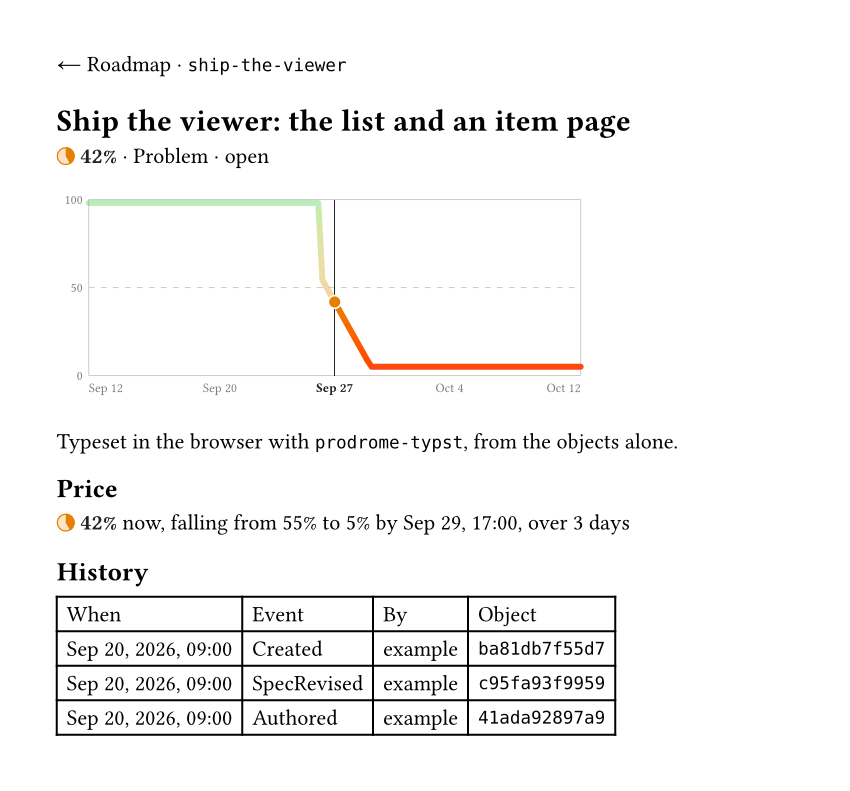
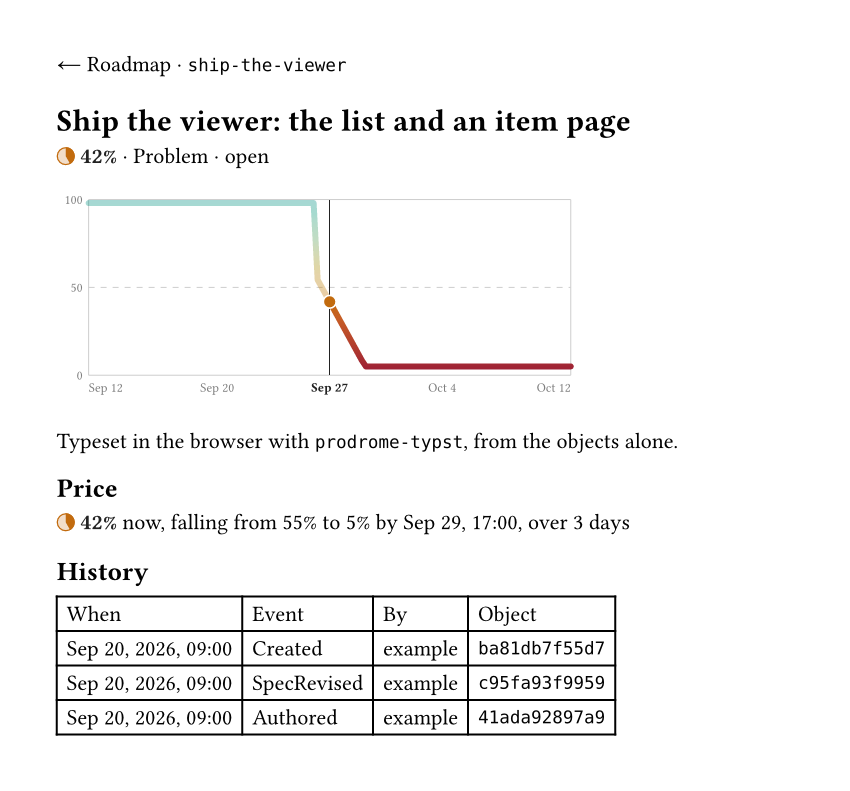
typst: the marks, their scale and their words are the design system's
The package drew its own scale (red to green in OKLCH), pie and trace,
and said its own words for a value. It now imports them from
`typst-design`: `fulfillment-color`'s scale through the pie and the trace,
and `state-of` and `percent`, re-exported. Deleted here: `fulfillment`,
`colour`, `_upward`, `unpriced`, `ink`, `pie`, `_runs`, `trace`, and the
laws of a scale that is no longer this package's (the design system's
laws hold its own).

What stays is the Prodrome's: `price` places the design's price in a
class a stylesheet finds and keeps its words where HTML cannot hold a
drawing, and `trace-of(data, todo)` reads a todo's marks from the data
and draws them as the design's trace. Both go through `_on`, so a design
mark never asks a restricted library for `html`. The viewer's scratch
document uses `trace-of`. The examples' pictures are rendered again.

diff --git a/viewer/src/typst.ts b/viewer/src/typst.ts
@@ -62,8 +62,7 @@ export function scratchDocument(): string {
     ``,
     `Worth #price(e.value) now, which is *#state-of(e.value)*.`,
     ``,
-    `#let m = data.marks.at(e.todo, default: none)`,
-    `#if m != none { trace(m.values, at: data.at, back: m.back, ahead: m.ahead) }`,
+    `#trace-of(data, e.todo)`,
     ``,
   ].join("\n");
 }

diff --git a/typst/README.md b/typst/README.md
@@ -11,48 +11,51 @@ viewer in `viewer/` is one such host, and an example of how to use it.
 
 **It computes nothing about fulfillment.** Every number it draws was answered
 by the core (compiled to WebAssembly, or any other implementation of SPEC.md).
-The one reading it adds is a value's colour.
 
-**The colour is continuous.** A fulfillment `v` in [0, 1] is drawn in
-`colour(v)`, a sample of one gradient, `fulfillment`:
-
-```typst
-#let fulfillment = gradient.linear(color.oklch(color.red), color.oklch(color.green), space: oklch)
-#let colour(value) = fulfillment.sample(value * 100%)
-```
-
-It is linear in each OKLCH channel, `oklch(65.95 + 8.01·v %, 0.227 − 0.007·v,
-28.44 + 115.85·v)`, and runs red, orange, yellow, green. Low is urgent: a
-value says how well things go if nothing changes. `∅`, or a todo that does
-not link, has no value and no colour of the scale; it reads "unpriced" in
-grey. Problem (below 0.5), Watch (below 0.7) and Fine are words
-(`state-of`), never colours. `tests/laws.typ` holds the scale to that formula.
+**Its look is the design system's.** The package imports
+[`typst-design`](https://github.com/bmabsout/typst-design)
+(`@local/typst-design:0.1.0`) for everything that is a look rather than a
+layout: the fulfillment scale (`fulfillment-color(v)`, continuous, low is
+urgent, readable on paper and by red–green colour-blind readers), the pie,
+the trace, the words for a value (`state-of`: Problem below 0.5, Watch below
+0.7, Fine) and `percent`. `∅`, or a todo that does not link, has no value
+and no colour of the scale; it reads "unpriced". The design system's own
+laws hold its scale and marks; `tests/laws.typ` holds what the layouts rely
+on of them, and the layouts themselves.
 
 ## Use
 
 ```typst
-#import "@local/prodrome-typst:0.1.0": roadmap, item, pie, trace
+#import "@local/prodrome-typst:0.1.0": roadmap, item, price, trace-of
 
 #let data = json("data.json")
 #roadmap(data)                         // the list, links to #/todo/<id>
 #item(data, "ship-the-viewer")         // one item's page
-#pie(0.42)                             // a value's pie
-#let m = data.marks.at("ship-the-viewer")
-#trace(m.values, at: data.at, back: m.back, ahead: m.ahead)
+#price(0.42)                           // a value's pie and percentage
+#trace-of(data, "ship-the-viewer")     // its thirty days
 ```
 
-Every layout works in paged export (PDF, PNG, SVG) and in HTML export
+Every layout works in paged export (PDF, PNG, SVG), in HTML export
 (`typst compile --features html --format html`), where the marks become inline
-SVG. The examples compile both ways:
+SVG, and in HTML from a library without `html` (typst-wasm's
+`Project.restricted()`, for markup whose author is not trusted), where the
+marks are left out and their words stay. The examples compile every way, with
+the design system on the package path beside this package:
 
 ```console
-$ mkdir -p pkgs/local/prodrome-typst && ln -s "$PWD/typst" pkgs/local/prodrome-typst/0.1.0
+$ mkdir -p pkgs/local/prodrome-typst pkgs/local/typst-design
+$ ln -s "$PWD/typst" pkgs/local/prodrome-typst/0.1.0
+$ git clone https://github.com/bmabsout/typst-design pkgs/local/typst-design/0.1.0
 $ typst compile --package-path pkgs typst/examples/roadmap.typ
 $ typst compile --package-path pkgs --features html --format html typst/examples/item.typ
 ```
 
-`nix flake check` does the same (`checks.prodrome-typst`), and compiles
-`tests/laws.typ`, whose asserts are the package's laws.
+`nix flake check` does the same (`checks.prodrome-typst`, with the design
+system the flake pins), compiles `tests/laws.typ`, whose asserts are the
+package's laws, and compiles the examples in typst-wasm's restricted project
+(`checks.prodrome-typst-restricted`). `examples/roadmap.png` and
+`examples/item.png` are the examples rendered, and the check renders them
+again (`nix build .#prodrome-typst-examples`) and fails if they differ.
 
 ## The data
 
@@ -81,19 +84,16 @@ store by the viewer's own `viewer/src/view.ts`.
   thirty days, detail, the price in words ("42% now, falling from 55% to 5%
   by Sep 29, 17:00, over 3 days") with the explanation's parts beneath it,
   and the history, each event dated and linked to its object file.
-- `pie(value, size:)`: the value's share of a disc from twelve o'clock
-  clockwise, in `colour(value)` on a faint track, with a thin outline.
-- `trace(values, at:, back:, ahead:, width:, height:)`: one thick line, each
-  point in `colour` of its own value, in a 0–100% frame with a dashed half;
-  the past faded, now a thin ink line and a dot, dated at the ends, a week
-  either side, and now.
-- `fulfillment`, `colour`, `state-of`, `percent`, `price` (a pie and the
-  percentage, or "unpriced"), `when` (an instant as a reader says it),
-  `explanation` (a tree of prices in words, every kind of term said with
-  percentages, spans and dates and never a field's name), `listed`, and the
-  colours `unpriced` and `ink`.
+- `price(value)`: the design's pie and the percentage, or "unpriced".
+- `trace-of(data, todo)`: the todo's thirty days, `data.marks` drawn as the
+  design's trace around `data.at`; the past faded, now a thin ink line and a
+  dot, dated at the ends, a week either side, and now.
+- `when` (an instant as a reader says it), `explanation` (a tree of prices
+  in words, every kind of term said with percentages, spans and dates and
+  never a field's name), `listed`, and, from the design system, `state-of`
+  and `percent`.
 
 `markup: true` reads an item's body and detail as Typst markup; the default
 shows them verbatim, because nothing promises a store's text is Typst. In HTML
-export each piece carries a class (`roadmap`, `price problem`, `marks`,
+export each piece carries a class (`roadmap`, `price`, `price unpriced`, `marks`,
 `explanation`, …) for a stylesheet to find.
